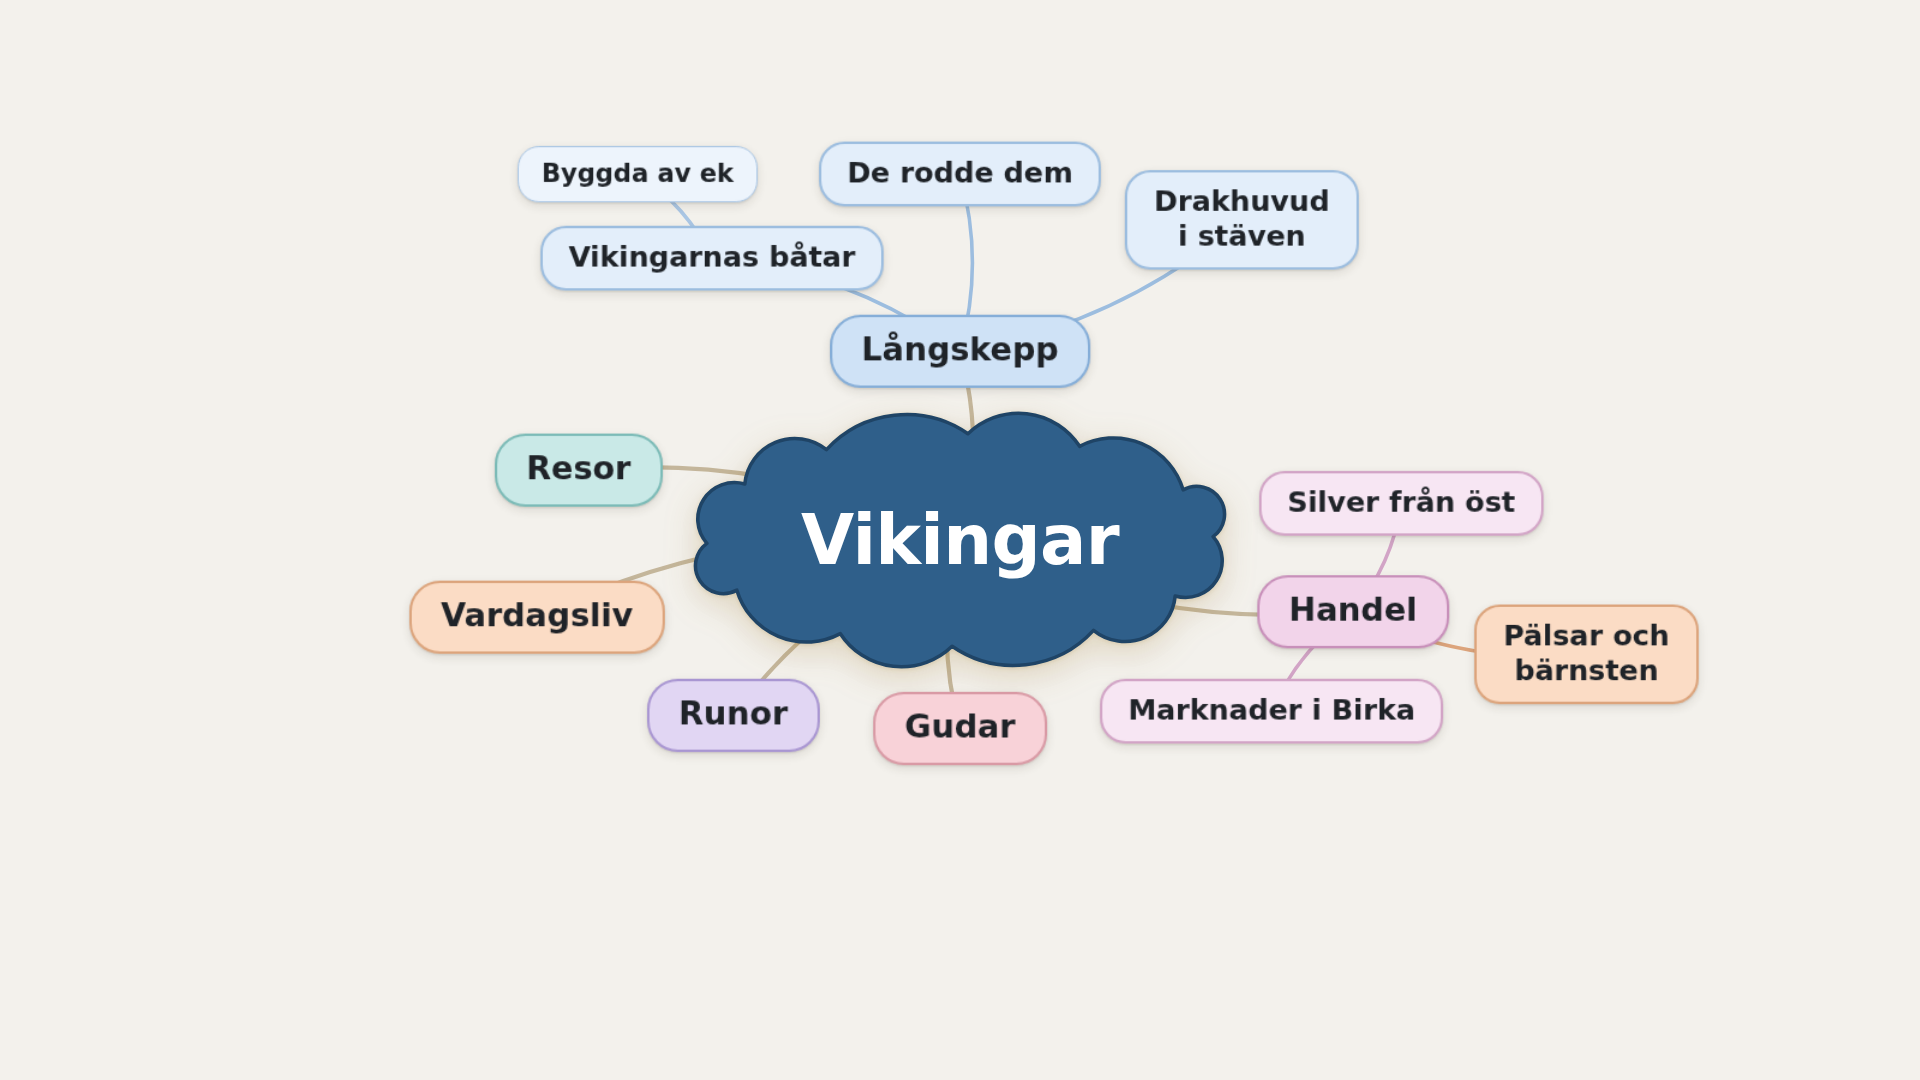
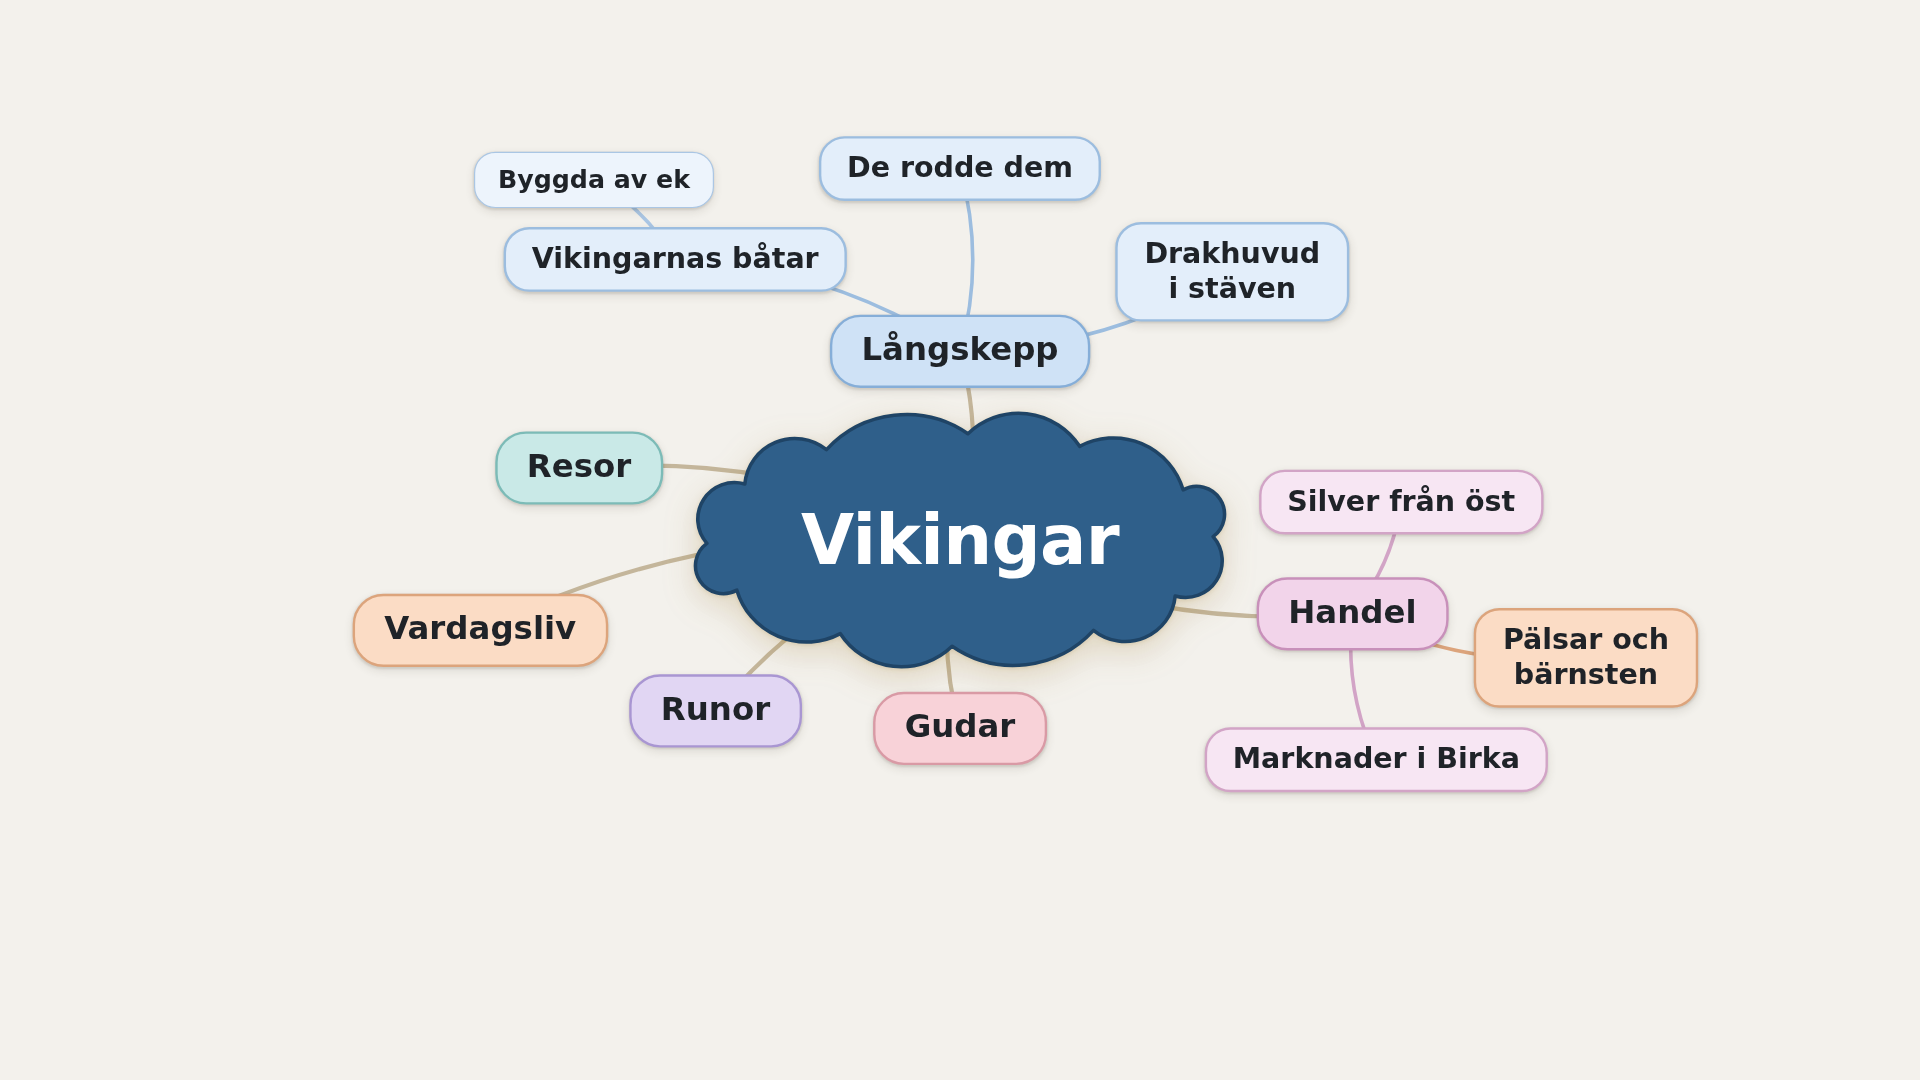
issue #59: Tankekarta — grenar under bubblor, markering, färg på moln och bubblor
- Klick markerar en bubbla (ring + ×); Enter lägger grenar under den, Esc/klick
  på molnet tillbaka. Klick tar aldrig bort: × eller Delete/Backspace med tom
  skrivrad tar bort hela grenen, Ångra tar tillbaka allt. Dubbelklick/F2 ändrar.
- Tre nivåer (tree.js), parentId per bubbla; kartor från #53 migreras (huvudnivå).
- Radiell trädlayout: sektorer efter löv och plats, girig placering utåt från
  föräldern, inga överlapp, mjuk nedskalning; dragna grenar följer föräldern.
- Färgrad: molnets 8 färger (rubriken väljer INK/vit, WCAG AA), bubblans färg,
  grenar ärver en ljusare nyans, Färglägg bubblor automatiskt.
- Elevskärm och utskrift visar grenar och färger, aldrig markering/kontroller.
- docs/test-karta.mjs: trädlayout, trädlogik, migrering, färger.

diff --git a/js/lib/karta-layout.js b/js/lib/karta-layout.js
@@ -24,16 +24,22 @@
  *
  * Grenar (issue #59): en bubbla kan ha under-bubblor (parent = index).
  * Då används en RADIELL TRÄDLAYOUT (placeTree) i stället för ringarna:
- *   - varje huvudbubbla får en vinkelsektor efter hur många "löv" dess
- *     gren har (en ensam bubbla = 1), i skapandeordning medurs från toppen;
- *     utan grenar blir sektorerna lika stora — samma vinklar som ringarna
+ *   - varje huvudbubbla får en sektor efter hur många "löv" dess gren har
+ *     (en ensam bubbla = 1), i skapandeordning medurs från toppen. Varvet
+ *     delas efter PLATS (angleWarp): åt håll där det är långt från molnet
+ *     till kanten ryms fler — smala (stående) format blir inte trånga
+ *     åt sidorna
  *   - en grens barn delar förälderns sektor (högst ~26° per barn, runt
  *     förälderns vinkel) — en solfjäder utåt i förälderns riktning
- *   - nivå 1 står närmast molnet, den djupaste nivån längst ut; varannan
- *     bubbla på den yttersta nivån kan stå en bit in (två "halvringar")
+ *   - girigt (placeGreedy), nivå för nivå: varje bubbla flyttas ut längs
+ *     sin stråle, från molnet — en gren från bortom sin förälder — tills
+ *     den inte rör något som redan står
  *   - barn till en FÄST (dragen) bubbla fläktar ut runt den, bort från
  *     molnet, så att en dragen gren följer med sin förälder
- *   Sedan samma avslappning och samma krympning som utan grenar.
+ *   Sedan samma avslappning och samma krympning som utan grenar. En
+ *   layout där avslappningen fått flytta en gren långt från sin plats
+ *   (drift) godtas bara om inget bättre finns — hellre lite mindre text
+ *   än en gren som hamnat hos grannen.
  *
  * Deterministiskt: ingen slump — elevskärmen och läraren får samma bild.
  */
@@ -220,15 +226,19 @@ function placeTree({ w, h, cloud, bubbles, tree, variant, margin, gap }) {
     }
   };
   if (total > 0) {
+    // Sektorerna delas ut efter hur mycket PLATS det finns åt varje håll
+    // (i ett smalt format är det trångt åt sidorna), sedan tillbaka till vinklar.
+    const warp = angleWarp({ items, w, h, cx, cy, cloud, margin, gap });
     const firstRoot = roots.find((i) => !items[i].fixed);
     const unit = (2 * Math.PI) / total;
-    const start = -Math.PI / 2 - (firstRoot != null ? weight[firstRoot] * unit : 0) / 2;
+    const start = warp.toU(-Math.PI / 2) - (firstRoot != null ? weight[firstRoot] * unit : 0) / 2;
     assign(roots, start, start + 2 * Math.PI);
+    for (let i = 0; i < n; i++) if (angle[i] != null) angle[i] = warp.toAngle(angle[i]);
   }
 
   const radial = [];
   for (let i = 0; i < n; i++) if (angle[i] != null) radial.push(i);
-  if (variant.greedy) placeGreedy({ items, radial, angle, level, w, h, cx, cy, cloud, margin, gap: gap + variant.pad });
+  if (variant.greedy) placeGreedy({ items, radial, angle, level, parent: tree.parent, w, h, cx, cy, cloud, margin, gap: gap + variant.pad });
   else placeLevels({ items, radial, angle, level, depth, variant, w, h, cx, cy, cloud, margin, gap });
   placeFans({ items, children, roots, w, h, cx, cy, margin, gap });
   return items;
@@ -240,7 +250,7 @@ function placeTree({ w, h, cloud, bubbles, tree, variant, margin, gap }) {
  * redan står (fästa bubblor, föräldern, grannarna). Ryms den inte hela
  * vägen ut står den där den överlappar minst — avslappningen tar resten.
  */
-function placeGreedy({ items, radial, angle, level, w, h, cx, cy, cloud, margin, gap }) {
+function placeGreedy({ items, radial, angle, level, parent, w, h, cx, cy, cloud, margin, gap }) {
   const placed = items.filter((it) => it.fixed);
   const overlap = (a) => {
     let sum = 0;
@@ -255,7 +265,20 @@ function placeGreedy({ items, radial, angle, level, w, h, cx, cy, cloud, margin,
   for (const i of order) {
     const it = items[i];
     const ray = rayFor(angle[i], w, h);
-    const { tMin, tMax } = rayRange({ it, ray, cx, cy, w, h, cloud, margin, gap });
+    const range = rayRange({ it, ray, cx, cy, w, h, cloud, margin, gap });
+    const { tMax } = range;
+    // En gren börjar bortom sin förälder, sett från molnet: minst så långt
+    // ut att den ligger på andra sidan linjen genom föräldern, vinkelrätt
+    // mot förälderns riktning — solfjädern går utåt, inte tillbaka.
+    const p = parent[i] >= 0 ? items[parent[i]] : null;
+    let tMin = range.tMin;
+    if (p) {
+      const px = p.x - cx;
+      const py = p.y - cy;
+      const pp = px * px + py * py;
+      const along = Math.max(px * ray.dx + py * ray.dy, 0.35 * Math.sqrt(pp));
+      tMin = Math.min(tMax, Math.max(tMin, pp / along + 1));
+    }
     const step = Math.max(4, Math.min(it.w, it.h) * 0.2);
     let best = null;
     for (let t = tMin; ; t = Math.min(tMax, t + step)) {
@@ -317,6 +340,44 @@ function placeFans({ items, children, roots, w, h, cx, cy, margin, gap }) {
     for (const c of children[i]) fan(c, inFan || kids.includes(c));
   };
   for (const r of roots) fan(r, false);
+}
+
+/**
+ * Vinkel ↔ "platsvinkel": åt håll där det är långt från molnet till kanten
+ * går det fler bubblor. u (0–2π) växer med platsen längs varvet, blandat
+ * med jämn fördelning så att inget håll blir tomt.
+ */
+function angleWarp({ items, w, h, cx, cy, cloud, margin, gap }) {
+  const K = 180;
+  const free = items.filter((it) => !it.fixed);
+  const avg = { w: 0, h: 0 };
+  for (const it of free) { avg.w += it.w / free.length; avg.h += it.h / free.length; }
+  const room = [];
+  for (let k = 0; k < K; k++) {
+    const a = -Math.PI + ((k + 0.5) * 2 * Math.PI) / K;
+    const { tMin, tMax } = rayRange({ it: avg, ray: rayFor(a, w, h), cx, cy, w, h, cloud, margin, gap });
+    room.push(Math.max(0, tMax - tMin));
+  }
+  const mean = room.reduce((s, r) => s + r, 0) / K || 1;
+  const cum = [0];
+  for (let k = 0; k < K; k++) cum.push(cum[k] + 0.45 + (0.55 * room[k]) / mean);
+  const total = cum[K];
+  const TAU = 2 * Math.PI;
+  return {
+    toU(a) {
+      const f = ((((a + Math.PI) / TAU) % 1) + 1) % 1 * K;
+      const k = Math.min(K - 1, Math.floor(f));
+      return ((cum[k] + (cum[k + 1] - cum[k]) * (f - k)) / total) * TAU;
+    },
+    toAngle(u) {
+      const v = ((((u / TAU) % 1) + 1) % 1) * total;
+      let lo = 0;
+      let hi = K;
+      while (hi - lo > 1) { const mid = (lo + hi) >> 1; if (cum[mid] <= v) lo = mid; else hi = mid; }
+      const f = lo + (v - cum[lo]) / (cum[lo + 1] - cum[lo] || 1);
+      return -Math.PI + (f / K) * TAU;
+    },
+  };
 }
 
 /** Strålen för en vinkel — följer scenens form (en ellips i scenens proportioner). */

diff --git a/DATAMODELL.md b/DATAMODELL.md
@@ -214,13 +214,25 @@ classes/{classId}/karta/{docId}         — Tankekartorna (issue #53) — ENDAST
     cur:     "map-<id>" | null          — kartan som visas (även på elevskärmen)
     paper:   "a3-landscape" | "a3-portrait" | "a4-landscape" | "a4-portrait"
                                         — senast valda papper för utskrift
-  map-<id>:  { name, title, bubbles, nextColor, rev }
+  map-<id>:  { name, title, cloud, autoColor, bubbles, nextColor, rev }
     name:    ""                         — namnet i kartlistan (bara lärarvyn);
                                           tomt → listan visar rubriken eller "Ny karta"
     title:   ""                         — rubriken i molnet (tom från början)
-    bubbles: [{ id, text, color, pin? }] — i skapandeordning; color = index i
-                                          js/modes/karta/palette.js; pin = { x, y }
-                                          (andel 0–1 av scenen) för en dragen bubbla
+    cloud:   0                          — molnets färg, index i palette.js CLOUD_COLORS
+                                          (issue #59; saknas → 0, samma färg som i #53)
+    autoColor: true                     — "Färglägg bubblor automatiskt": huvudbubblorna
+                                          får var sin färg; false → neutrala (issue #59)
+    bubbles: [{ id, text, color, parentId, pin? }]
+                                        — i skapandeordning. color = index i
+                                          js/modes/karta/palette.js PALETTE, eller null
+                                          för en gren = ärv förälderns färg (ljusare);
+                                          parentId = förälderns id, null = huvudnivå
+                                          (issue #59, högst 3 nivåer — js/modes/karta/tree.js);
+                                          pin = { x, y } (andel 0–1 av scenen) för en
+                                          dragen bubbla
+                     Migrering: kartor från #53 saknar parentId, cloud och autoColor →
+                     alla bubblor huvudnivå, standardmolnet, automatiska färger
+                     (normalizeMap i js/modes/karta.js, när kartan läses).
     nextColor: tal                      — nästa färg i tur och ordning
                      — inga kartor från början och inget förifyllt innehåll.
                        Rubrik och bubblor kan innehålla elevnamn → lämnar

diff --git a/README.md b/README.md
@@ -79,8 +79,10 @@ js/
                         skriv/print.js = Skrivtavlans utskrift — linjerat A4, lokalt via window.print(),
                         lotta.js = Lottning — lyckohjul/namnrulle/dra en lapp (lotta/stage.js = scenen),
                         karta.js = Tankekarta — moln i mitten, bubblor runt om, flera kartor per klass
-                        (karta/scene.js = scenen, karta/print.js = utskrift A3/A4, karta/palette.js)
-  lib/karta-layout.js   tankekartans layout: ringar runt molnet, inga överlapp, samma bild i alla storlekar
+                        (karta/scene.js = scenen, karta/print.js = utskrift A3/A4, karta/palette.js =
+                        färger för bubblor, grenar och molnet, karta/tree.js = grenarnas trädlogik)
+  lib/karta-layout.js   tankekartans layout: ringar runt molnet, grenar utåt från sin förälder
+                        (radiell trädlayout), inga överlapp, samma bild i alla storlekar
   lib/lotta.js          lottningens logik: rättvis slump, listor, "inga upprepningar", animationsmål
   lib/week.js           veckologik (måndag 00:00) · lib/week-rhythm.js  rent varje måndag
   lib/week-goal.js      trafikljusets veckomål · lib/week-recap.js  veckosammanfattningen (Veckans övergångar)

diff --git a/docs/SYNC.md b/docs/SYNC.md
@@ -122,7 +122,9 @@ varje ändring (ny/borttagen/flyttad/ändrad bubbla, rubriken medan läraren
 skriver, byte av karta):
 
 ```js
-ctx.sync.publish("karta:state", { cid, cur, map: { id, title, bubbles }, rev });
+ctx.sync.publish("karta:state", { cid, cur, map: { id, title, cloud, bubbles }, rev });
+// bubbles: [{ id, text, color, parentId, pin? }] — grenar och färger (issue #59).
+// Lärarens markering (vald bubbla) skickas aldrig: elevskärmen har ingen.
 ```
 
 Elevskärmen ritar samma karta (`js/modes/karta/scene.js`) och
